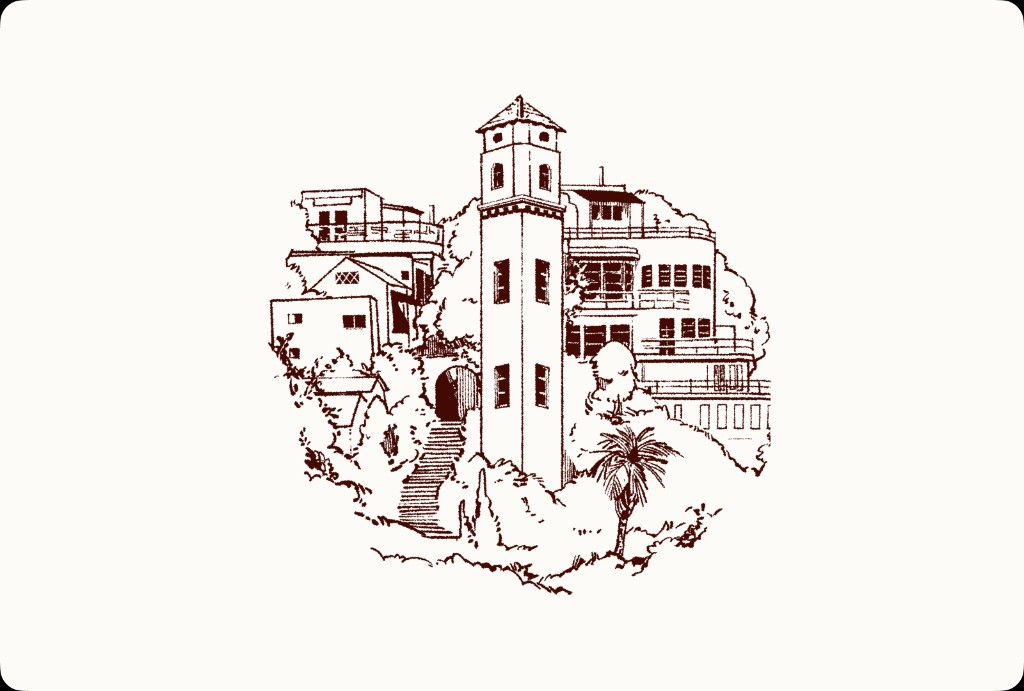
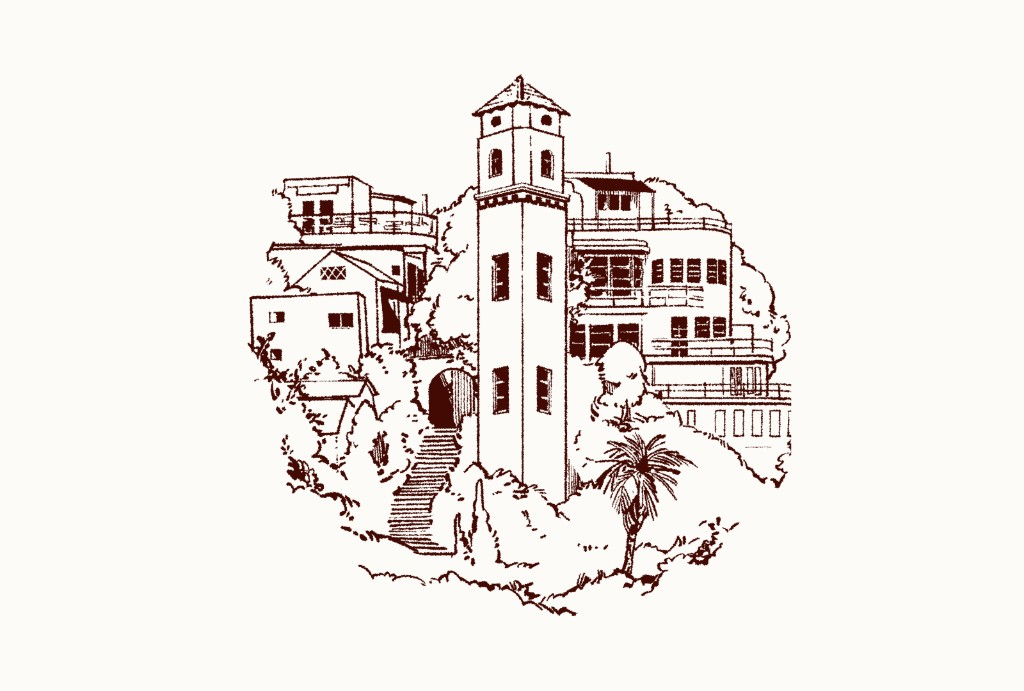
Add Vercel Web Analytics

diff --git a/app/layout.tsx b/app/layout.tsx
@@ -1,4 +1,5 @@
 import type { Metadata } from "next";
+import { Analytics } from "@vercel/analytics/next";
 import ThemeProvider from "@/components/ThemeProvider";
 import "./globals.css";
 
@@ -27,6 +28,7 @@ export default function RootLayout({
       </head>
       <body className="min-h-full bg-hollywood-blue font-statius text-cream antialiased">
         <ThemeProvider>{children}</ThemeProvider>
+        <Analytics />
       </body>
     </html>
   );